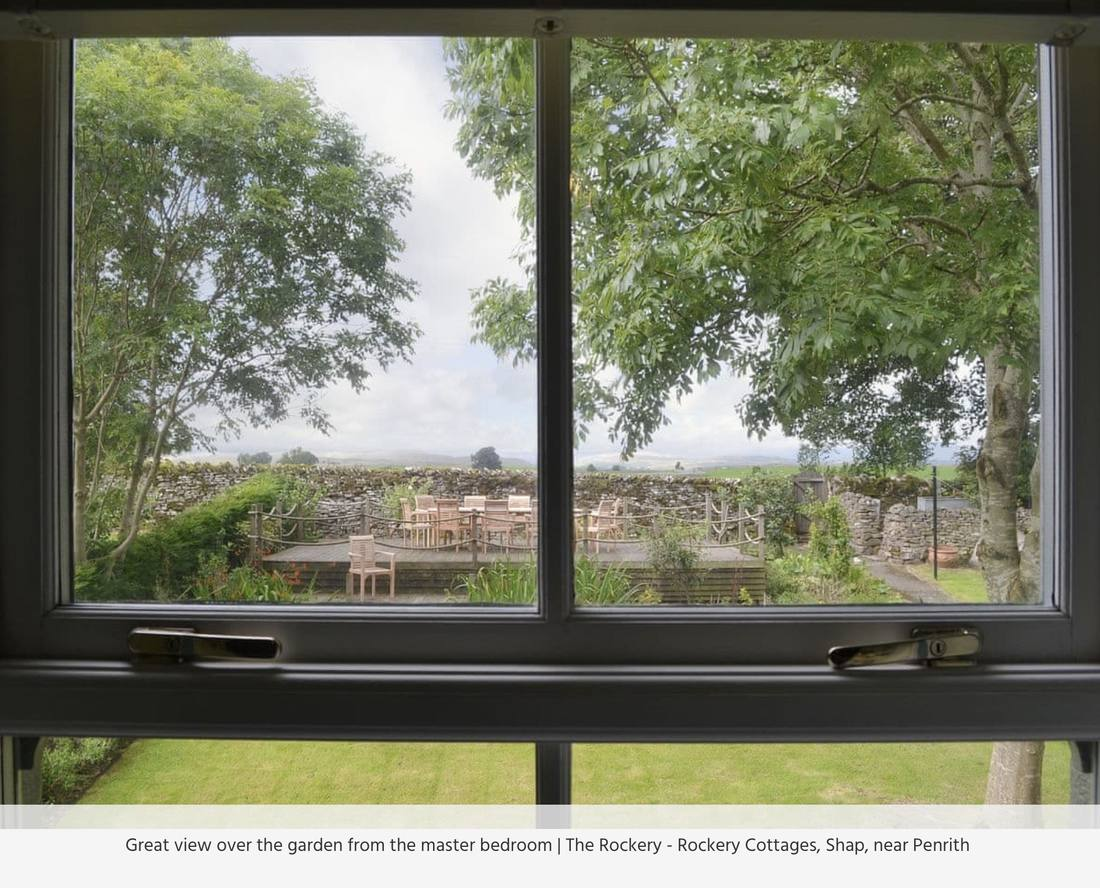
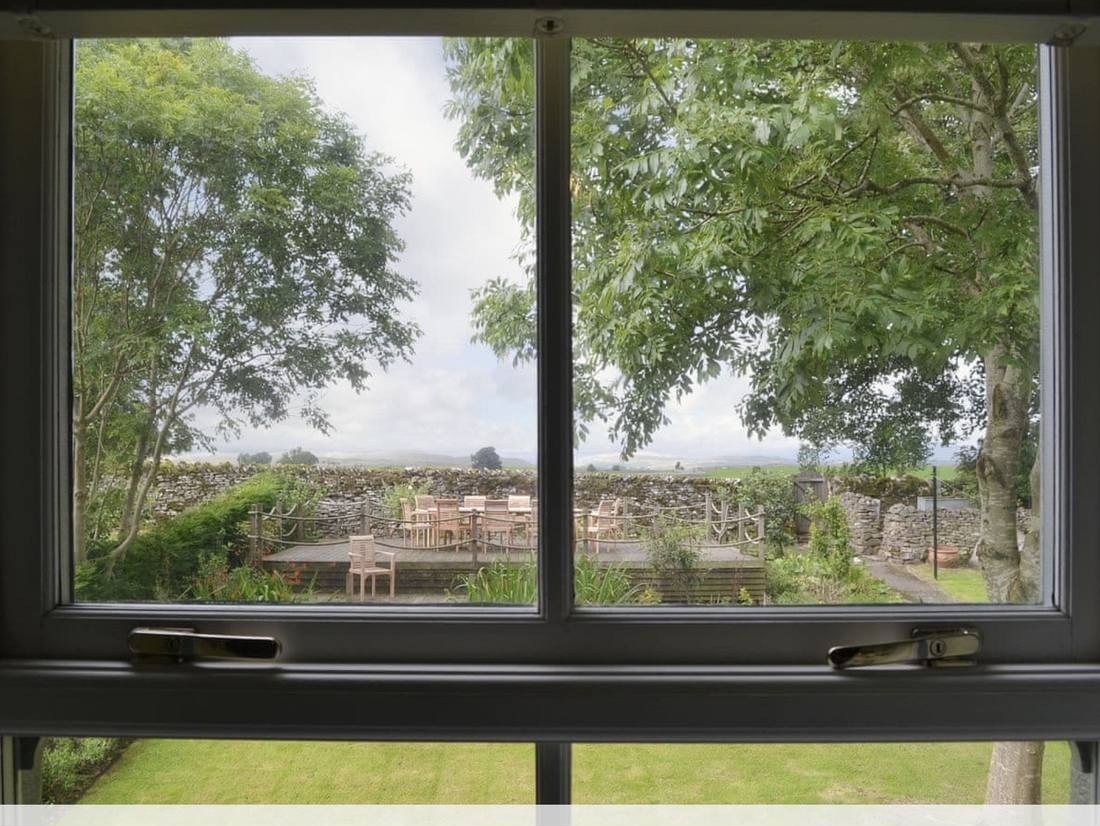
The Rockery: coming-soon 2027, card detail match, de-caption photos
- Match The Rockery overlay card detail to the cottage card:
  "Home-from-home" / "The Rockery" / "Shap Village, Lake District ·
  Private entrance & key"
- Add a "Coming Soon · 2027" banner and hero signal: the property opens
  for bookings in 2027, with a prompt to enquire via the form for details
- Remove the baked-in listing-site caption strip from the bottom of every
  affected photo (the hero and gallery images) by cropping — this is the
  "text at the bottom of the image" flagged earlier. Primrose photos had
  no caption and are unchanged.

Claude-Session: https://claude.ai/code/session_01ET5nqn2hRGWMj2BaTziD2Y

diff --git a/site/src/styles/global.css b/site/src/styles/global.css
@@ -1629,3 +1629,35 @@
       padding: 1.2rem 1.5rem;
       border-top: 1px solid rgba(176,168,153,0.25);
     }
+
+    /* ── COMING SOON BANNER (The Rockery) ── */
+    .coming-soon {
+      background: var(--coniston-blue);
+      padding: clamp(2rem, 5vw, 3rem) 1.5rem;
+      text-align: center;
+    }
+    .coming-soon-inner {
+      max-width: 640px;
+      margin: 0 auto;
+      display: flex;
+      flex-direction: column;
+      align-items: center;
+      gap: 1.1rem;
+    }
+    .coming-soon-tag {
+      display: inline-block;
+      background: var(--gable-green);
+      color: var(--off-black);
+      font-size: 0.72rem;
+      font-weight: 500;
+      letter-spacing: 0.2em;
+      text-transform: uppercase;
+      padding: 0.45rem 1.1rem;
+      border-radius: 100px;
+    }
+    .coming-soon p {
+      color: rgba(255,255,255,0.85);
+      font-size: 1rem;
+      line-height: 1.7;
+      font-weight: 300;
+    }
